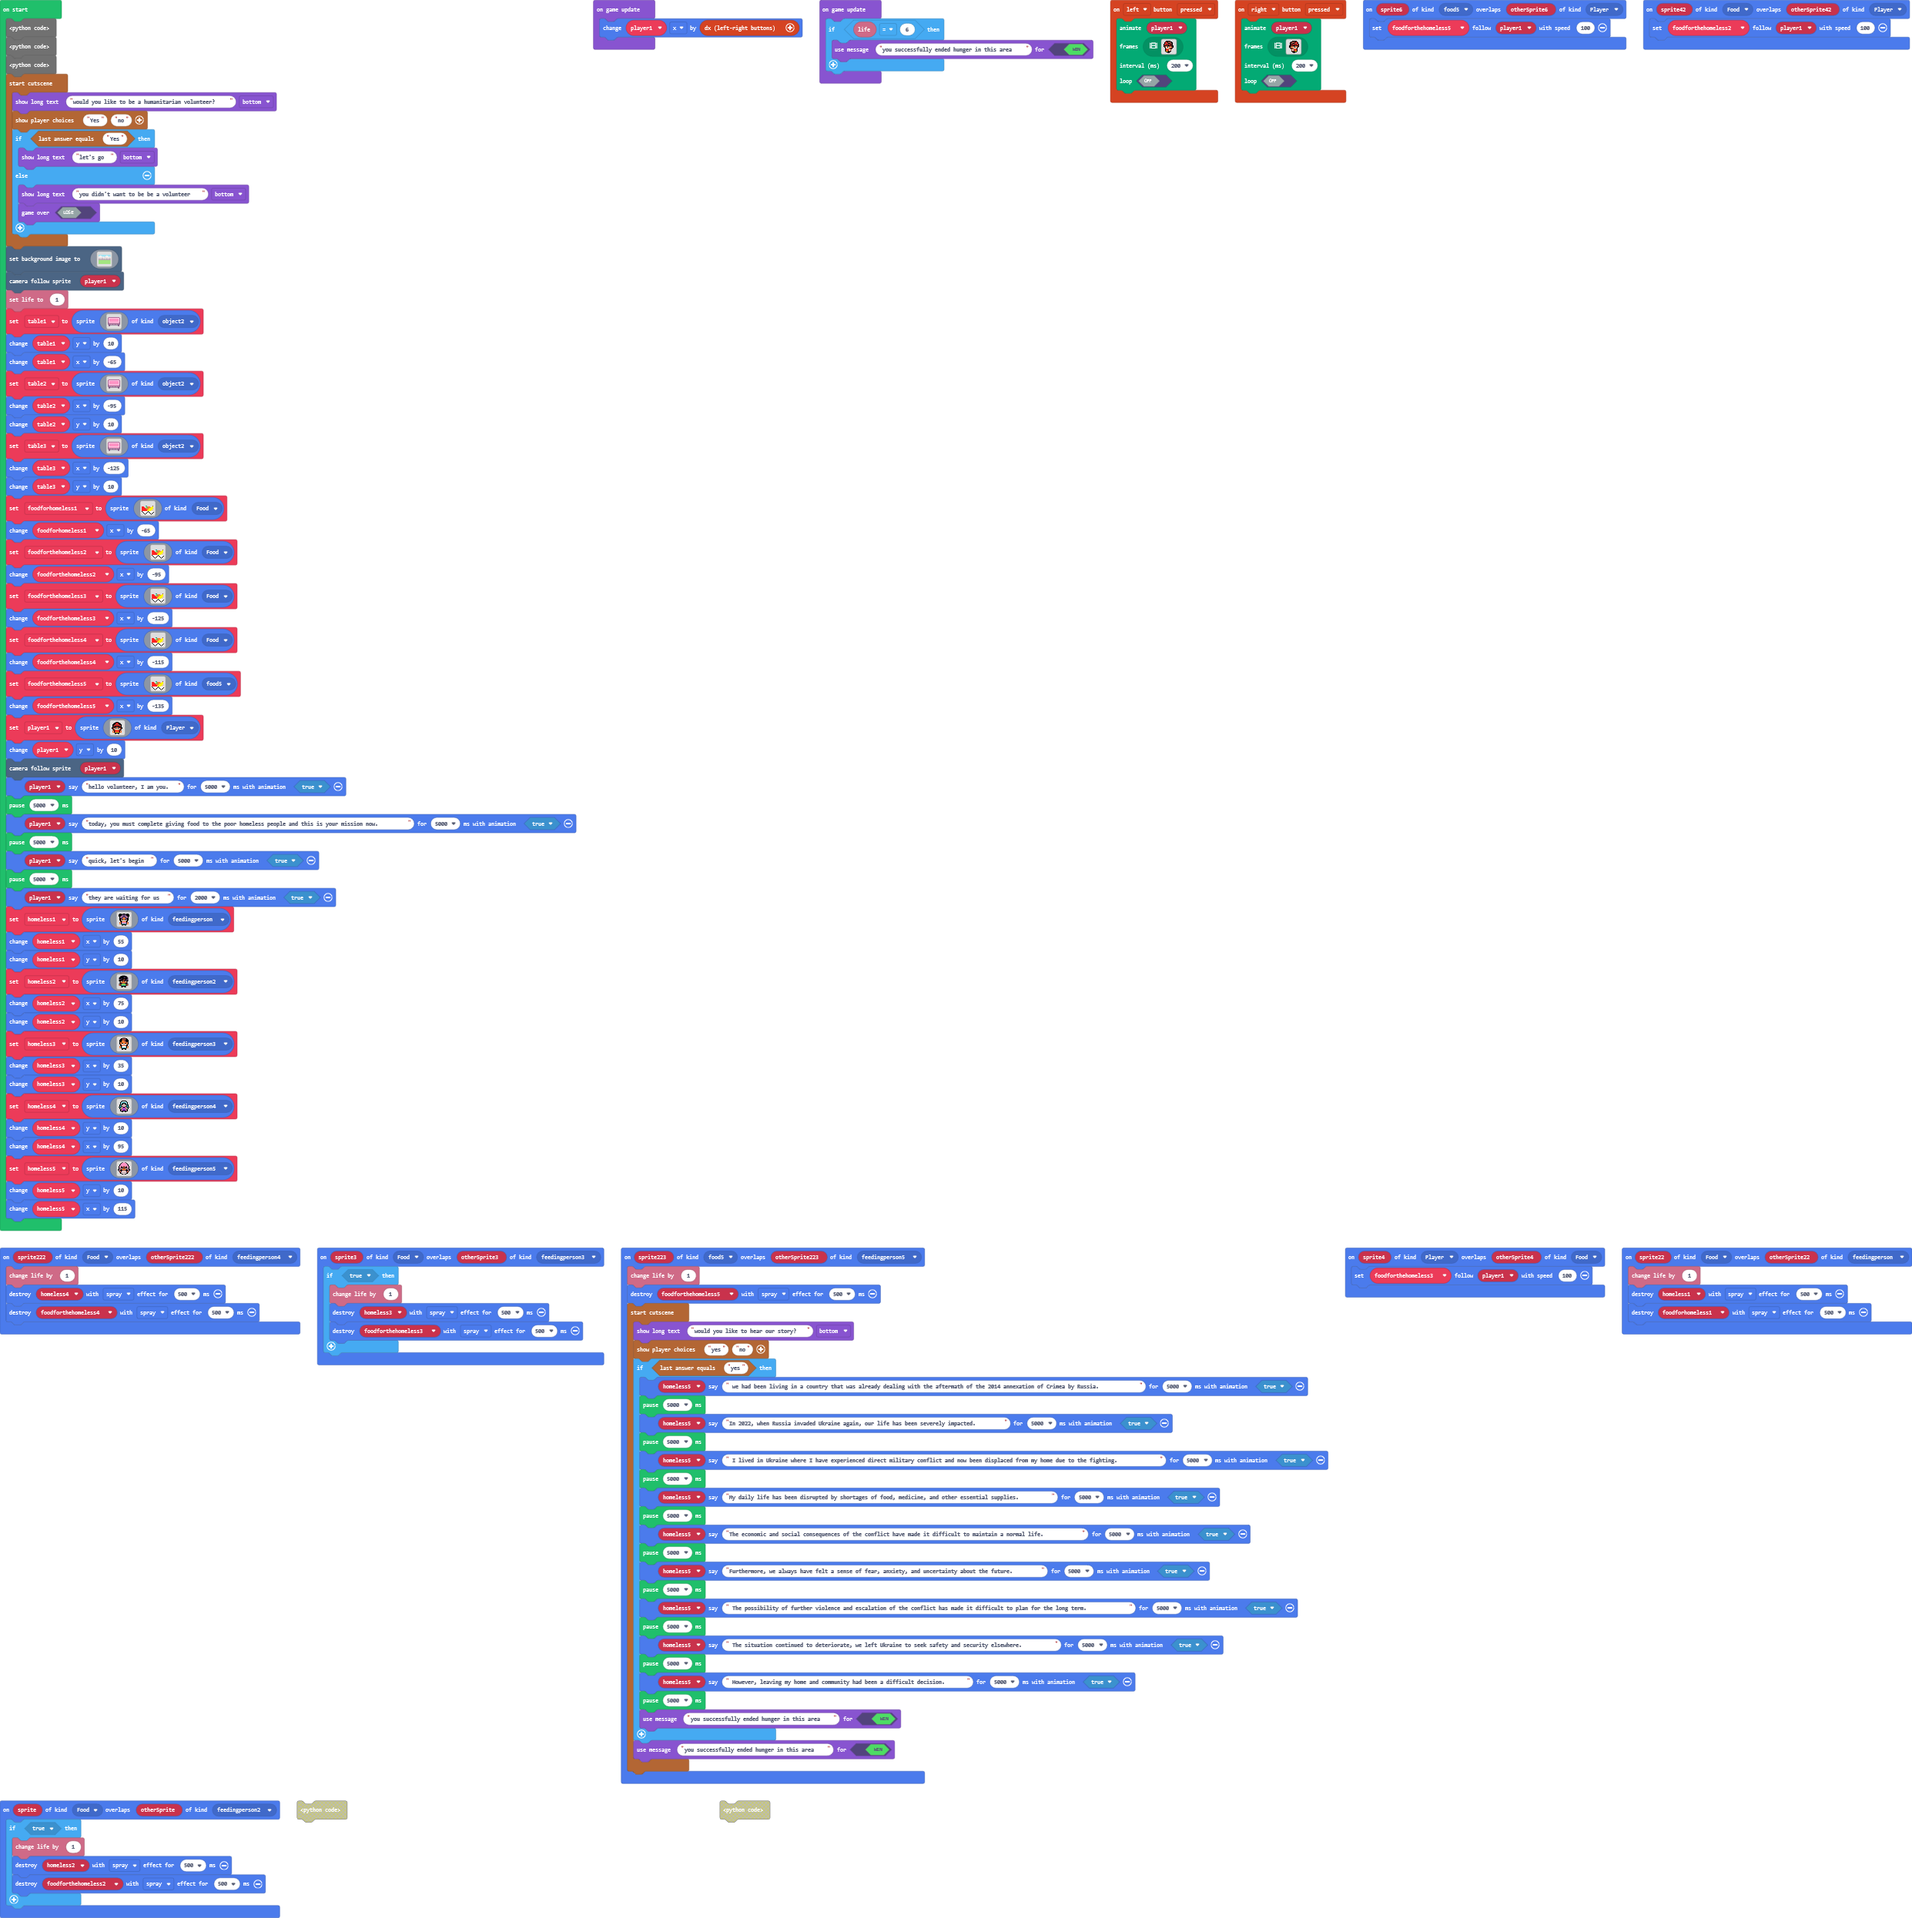
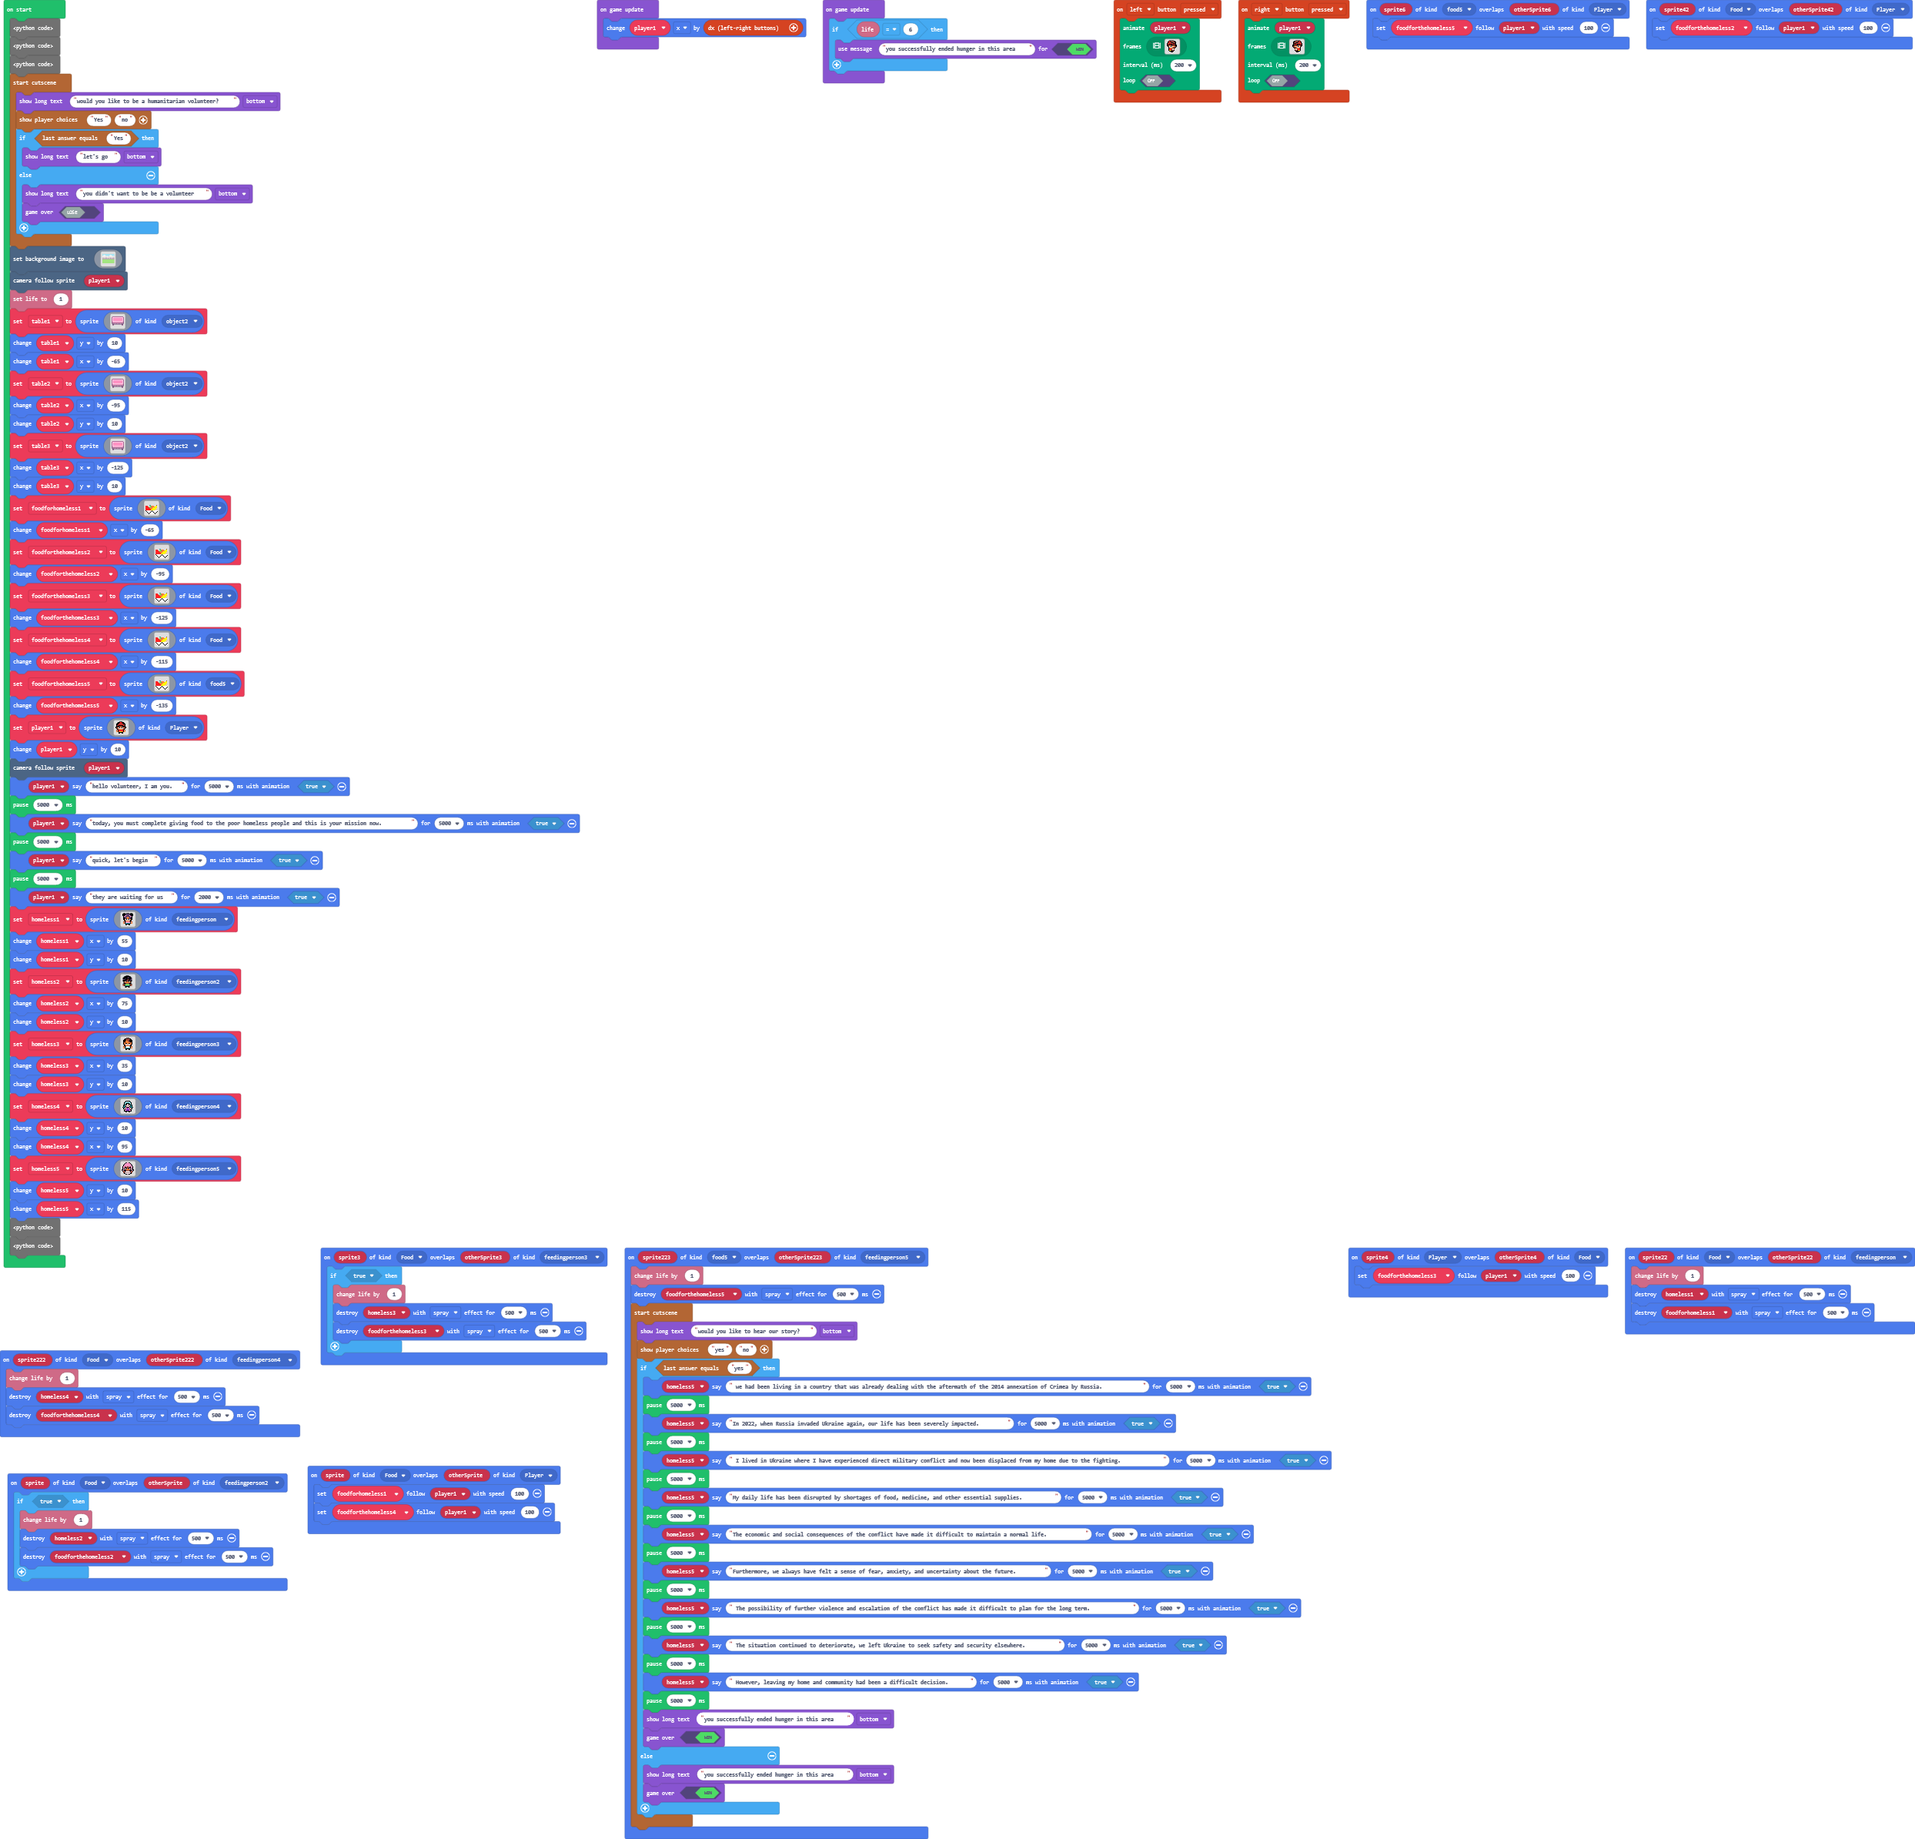
Update main.blocks, main.ts

diff --git a/main.ts b/main.ts
@@ -65,10 +65,17 @@ sprites.onOverlap(SpriteKind.food5, SpriteKind.feedingperson5, function (sprite2
             pause(5000)
             homeless5.sayText(" However, leaving my home and community had been a difficult decision.", 5000, true)
             pause(5000)
-            game.setGameOverMessage(true, "you successfully ended hunger in this area")
+            game.showLongText("you successfully ended hunger in this area", DialogLayout.Bottom)
+            game.gameOver(true)
+        } else {
+            game.showLongText("you successfully ended hunger in this area", DialogLayout.Bottom)
+            game.gameOver(true)
         }
-        game.setGameOverMessage(true, "you successfully ended hunger in this area")
     })
+})
+sprites.onOverlap(SpriteKind.Food, SpriteKind.Player, function (sprite, otherSprite) {
+    foodforhomeless1.follow(player1, 100)
+    foodforthehomeless4.follow(player1, 100)
 })
 controller.right.onEvent(ControllerButtonEvent.Pressed, function () {
     animation.runImageAnimation(
@@ -188,6 +195,12 @@ homeless5 = sprites.create(img`
     `, SpriteKind.feedingperson5)
 homeless5.y += 10
 homeless5.x += 115
+sprites.onOverlap(SpriteKind.Food, SpriteKind.Player, function on_on_overlap9(sprite23: Sprite, otherSprite23: Sprite) {
+    foodforthehomeless4.follow(player1, 100)
+})
+sprites.onOverlap(SpriteKind.Food, SpriteKind.Player, function on_on_overlap8(sprite2: Sprite, otherSprite2: Sprite) {
+    foodforhomeless1.follow(player1, 100)
+})
 game.onUpdate(function () {
     player1.x += controller.dx()
 })
